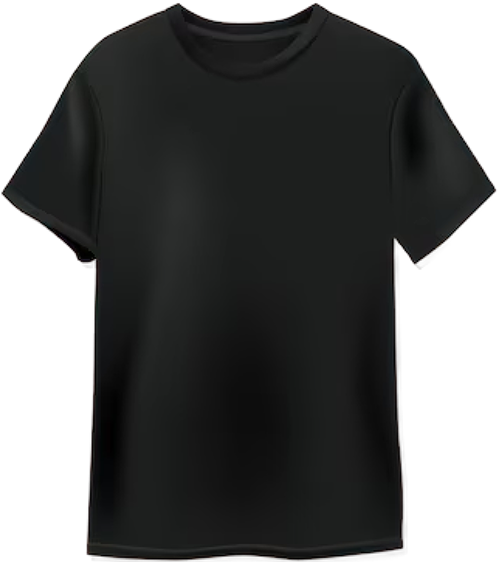
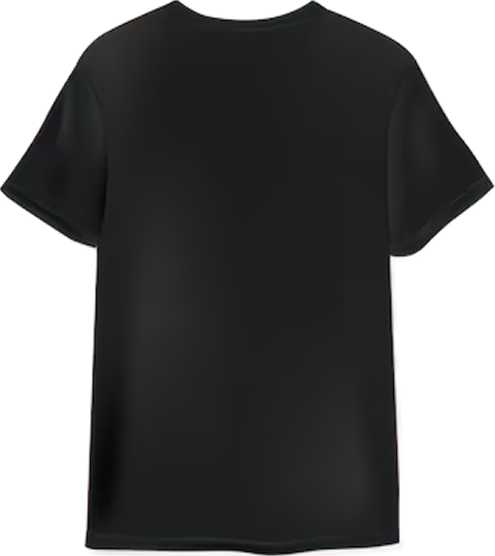
switch side

diff --git a/src/components/MerchDesigner/index.tsx b/src/components/MerchDesigner/index.tsx
@@ -36,6 +36,9 @@ export function MerchDesigner() {
   const [shirtColor, setShirtColor] = useState<"black" | "white">("black");
   const textColor = shirtColor === "white" ? "#000000" : "#FFFFFF";
 
+  // Inactive side's design — swapped in/out when switching front↔back.
+  const [otherSnap, setOtherSnap] = useState<Snapshot>({ strokes: [], placedAssets: [], positions: DEFAULT_POSITIONS, extraTexts: [] });
+
   // ── Freehand strokes ────────────────────────────────────
   const [strokes, setStrokes] = useState<ChalkStroke[]>([]);
   const [selectedStrokeId, setSelectedStrokeId] = useState<string | null>(null);
@@ -98,6 +101,15 @@ export function MerchDesigner() {
     setStrokes(s.strokes); setPlacedAssets(s.placedAssets); setPositions(s.positions); setExtraTexts(s.extraTexts);
   }, []);
   const { commit, undo, redo, canUndo, canRedo } = useUndoRedo(liveSnapshot, applySnapshot);
+
+  const switchSide = useCallback((newSide: "front" | "back") => {
+    if (newSide === side) return;
+    setOtherSnap({ strokes, placedAssets, positions, extraTexts });
+    setStrokes(otherSnap.strokes); setPlacedAssets(otherSnap.placedAssets);
+    setPositions(otherSnap.positions); setExtraTexts(otherSnap.extraTexts);
+    setSide(newSide);
+    setSelectedAssetId(null); setSelectedStrokeId(null); setSelectedTextId(null);
+  }, [side, strokes, placedAssets, positions, extraTexts, otherSnap]);
 
   // ── Drag ────────────────────────────────────────────────
   const [dragging, setDragging] = useState<string | null>(null);
@@ -367,35 +379,64 @@ export function MerchDesigner() {
     ...extraTexts.map(et => ({ key: et.id, text: et.text, font: et.font, size: et.size, weight: et.weight, color: textColor, align: et.align, outline: et.outline, position: et.position })),
   ];
 
-  const buildScene = useCallback((): PosterScene => ({
-    w: MERCH_SIZE.w, h: MERCH_SIZE.h, bg: "rgba(0,0,0,0)",
-    pattern: EMPTY_PATTERN, patternStrokes: [], strokes,
-    texts: textItems.map(t => ({ key: t.key, text: t.text, font: t.font, size: t.size, weight: t.weight, color: t.color, align: t.align, outline: t.outline, x: t.position.x, y: t.position.y })),
-    assets: placedAssets.map((a): SceneAsset => { const item = allAssets.find(x => x.id === a.assetId); return { ...a, src: item?.src ?? getAssetSrc(a.assetId), category: item?.category ?? "logos", naturalWidth: item?.naturalWidth, naturalHeight: item?.naturalHeight }; }),
-  }), [strokes, textItems, placedAssets, allAssets, getAssetSrc]);
+  const buildSceneFrom = useCallback((snap: Snapshot): PosterScene => {
+    const snapTexts = [
+      { key: "header" as PosKey, text: headerText, font: headerFont, size: headerSize, weight: headerWeight, color: textColor, align: textAligns.header, outline: headerOutline, position: snap.positions.header },
+      { key: "sub" as PosKey, text: subText, font: subFont, size: subSize, weight: "600", color: textColor, align: textAligns.sub, outline: subOutline, position: snap.positions.sub },
+      { key: "body" as PosKey, text: bodyText, font: bodyFont, size: bodySize, weight: "400", color: textColor, align: textAligns.body, outline: bodyOutline, position: snap.positions.body },
+      { key: "detail" as PosKey, text: detailText, font: detailFont, size: detailSize, weight: "400", color: textColor, align: textAligns.detail, outline: detailOutline, position: snap.positions.detail },
+      ...snap.extraTexts.map(et => ({ key: et.id, text: et.text, font: et.font, size: et.size, weight: et.weight, color: textColor, align: et.align, outline: et.outline, position: et.position })),
+    ];
+    return {
+      w: MERCH_SIZE.w, h: MERCH_SIZE.h, bg: "rgba(0,0,0,0)",
+      pattern: EMPTY_PATTERN, patternStrokes: [], strokes: snap.strokes,
+      texts: snapTexts.map(t => ({ key: t.key, text: t.text, font: t.font, size: t.size, weight: t.weight, color: t.color, align: t.align, outline: t.outline, x: t.position.x, y: t.position.y })),
+      assets: snap.placedAssets.map((a): SceneAsset => { const item = allAssets.find(x => x.id === a.assetId); return { ...a, src: item?.src ?? getAssetSrc(a.assetId), category: item?.category ?? "logos", naturalWidth: item?.naturalWidth, naturalHeight: item?.naturalHeight }; }),
+    };
+  }, [headerText, headerFont, headerSize, headerWeight, textColor, textAligns, headerOutline, subText, subFont, subSize, subOutline, bodyText, bodyFont, bodySize, bodyOutline, detailText, detailFont, detailSize, detailOutline, allAssets, getAssetSrc]);
+
+  const buildScene = useCallback(() => buildSceneFrom({ strokes, placedAssets, positions, extraTexts }), [buildSceneFrom, strokes, placedAssets, positions, extraTexts]);
 
   const handleOrder = useCallback(async () => {
-    const scale = 3;
+    const SCALE = 3;
     const { w, h } = MERCH_SIZE;
-    const canvas = document.createElement("canvas");
-    canvas.width = w * scale; canvas.height = h * scale;
-    const ctx = canvas.getContext("2d")!;
-    // 1. Draw t-shirt
-    const shirtSrc = side === "front" ? FRONT_IMG : BACK_IMG;
-    const shirtImg = await loadImage(shirtSrc);
-    ctx.drawImage(shirtImg, 0, 0, w * scale, h * scale);
-    if (shirtColor === "white") {
-      const d = ctx.getImageData(0, 0, w * scale, h * scale);
-      for (let i = 0; i < d.data.length; i += 4) { d.data[i] = 255 - d.data[i]; d.data[i + 1] = 255 - d.data[i + 1]; d.data[i + 2] = 255 - d.data[i + 2]; }
-      ctx.putImageData(d, 0, 0);
+    const liveSnap: Snapshot = { strokes, placedAssets, positions, extraTexts };
+    const frontSnap = side === "front" ? liveSnap : otherSnap;
+    const backSnap  = side === "back"  ? liveSnap : otherSnap;
+
+    async function renderSide(snap: Snapshot, shirtSrc: string): Promise<HTMLCanvasElement> {
+      const c = document.createElement("canvas");
+      c.width = w * SCALE; c.height = h * SCALE;
+      const cx = c.getContext("2d")!;
+      const img = await loadImage(shirtSrc);
+      cx.drawImage(img, 0, 0, w * SCALE, h * SCALE);
+      if (shirtColor === "white") {
+        const d = cx.getImageData(0, 0, w * SCALE, h * SCALE);
+        for (let i = 0; i < d.data.length; i += 4) { d.data[i] = 255 - d.data[i]; d.data[i + 1] = 255 - d.data[i + 1]; d.data[i + 2] = 255 - d.data[i + 2]; }
+        cx.putImageData(d, 0, 0);
+      }
+      const scene = buildSceneFrom(snap);
+      const images = await loadSceneImages(scene);
+      cx.scale(SCALE, SCALE);
+      await renderPosterScene(cx, scene, images);
+      return c;
     }
-    // 2. Overlay design (transparent bg = no-op fill)
-    const scene = buildScene();
-    const images = await loadSceneImages(scene);
-    ctx.scale(scale, scale);
-    await renderPosterScene(ctx, scene, images);
-    canvas.toBlob(blob => downloadBlob(blob!, `merch-${side}.png`), "image/png");
-  }, [side, shirtColor, buildScene]);
+
+    const [frontCanvas, backCanvas] = await Promise.all([
+      renderSide(frontSnap, FRONT_IMG),
+      renderSide(backSnap, BACK_IMG),
+    ]);
+
+    const combined = document.createElement("canvas");
+    combined.width = frontCanvas.width * 2;
+    combined.height = frontCanvas.height;
+    const ctx = combined.getContext("2d")!;
+    ctx.fillStyle = "#ffffff";
+    ctx.fillRect(0, 0, combined.width, combined.height);
+    ctx.drawImage(frontCanvas, 0, 0);
+    ctx.drawImage(backCanvas, frontCanvas.width, 0);
+    combined.toBlob(blob => downloadBlob(blob!, "merch-order.png"), "image/png");
+  }, [side, shirtColor, strokes, placedAssets, positions, extraTexts, otherSnap, buildSceneFrom]);
 
   // ── Sidebar panels ─────────────────────────────────────────
   const headerField: TextFieldState = { text: headerText, setText: setHeaderText, font: headerFont, setFont: setHeaderFont, size: headerSize, setSize: setHeaderSize, sizeMin: 18, sizeMax: 80, weight: headerWeight, setWeight: setHeaderWeight, outline: headerOutline, setOutline: setHeaderOutline };
@@ -473,7 +514,7 @@ export function MerchDesigner() {
       {/* View strip: front / back */}
       <div style={{ width: 44, flexShrink: 0, background: "#141414", borderRight: "1px solid #2a2a2a", display: "flex", flexDirection: "column", alignItems: "center", paddingTop: 12, gap: 4 }}>
         {TSHIRT_VIEWS.map(v => (
-          <button key={v.id} onClick={() => setSide(v.id)} title={v.label}
+          <button key={v.id} onClick={() => switchSide(v.id)} title={v.label}
             style={{ width: 34, height: 34, borderRadius: 6, border: "none", cursor: "pointer", fontSize: 9, fontWeight: 700, letterSpacing: "0.04em", fontFamily: "'Inria Sans', system-ui, sans-serif", textTransform: "uppercase",
               background: side === v.id ? "rgba(255,255,255,0.15)" : "transparent",
               color: side === v.id ? "#fff" : "rgba(255,255,255,0.35)",
